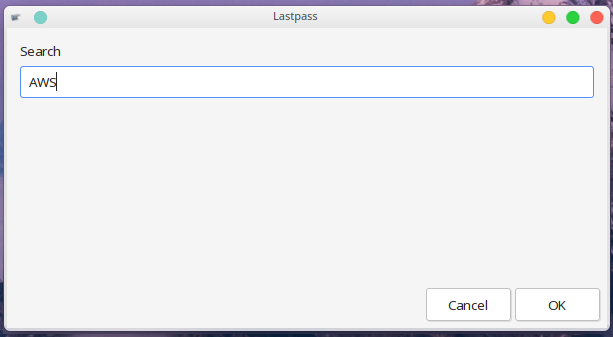
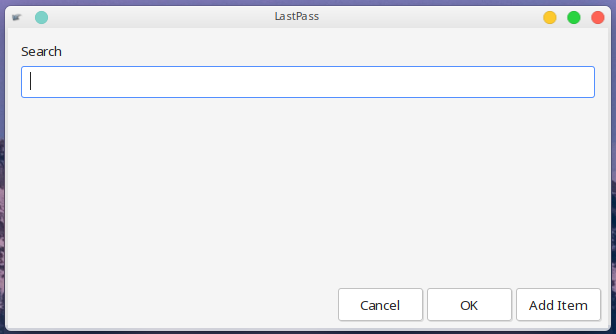
Added option to add/create passwords

Changed region(s): [[0.0, 0.0, 1.0, 1.0], [0.4339, 0.0299, 0.5269, 0.0599], [0.5889, 0.8982, 0.6509, 0.9281]]

diff --git a/README.md b/README.md
@@ -54,10 +54,22 @@ Optionally, you could add a keyboard shortcut to your DE to call the script.
 
 - - -
 
-### Screenshots
+# Screenshots
+
+## Getting Credentials
 
 ![](.images/search_prompt.png)
 
 ![](.images/select_account.png)
 
 ![](.images/user_pass.png)
+
+## Adding Credentials
+
+![](.images/create_password_prompt.png)
+
+![](.images/password_lenght.png)
+
+![](.images/generated_password.png)
+
+![](.images/add_password_prompt.png)
